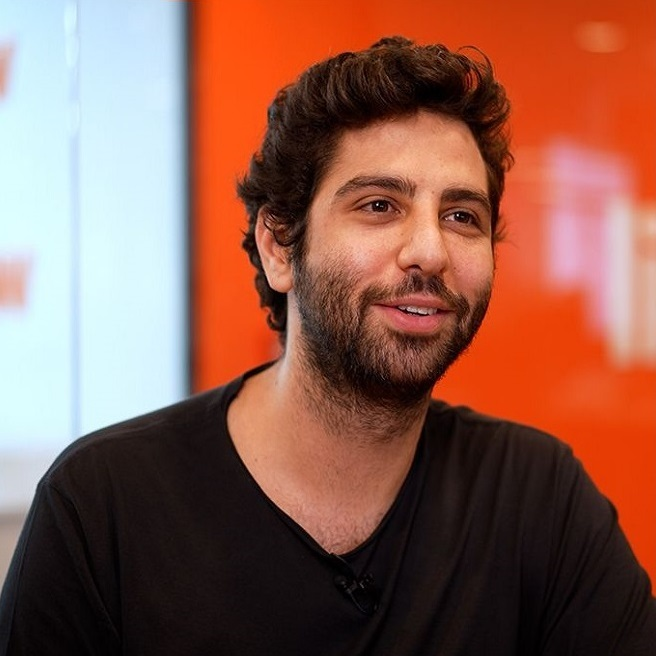
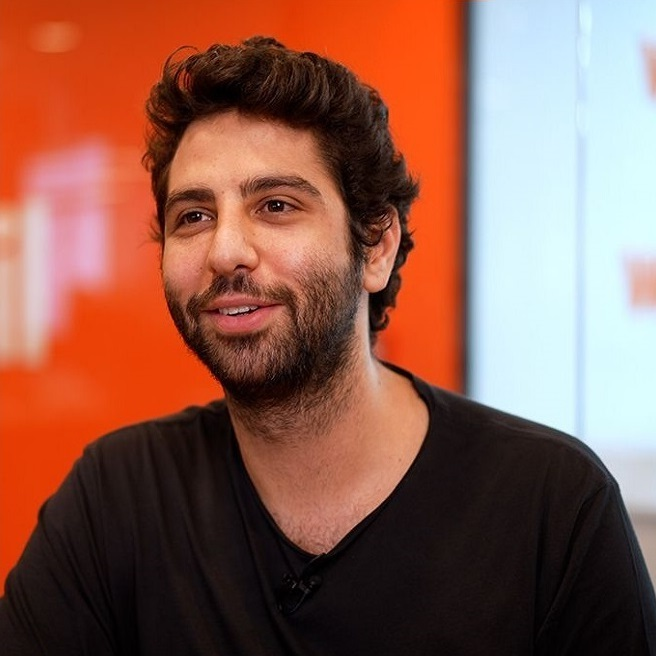
Konuşmacılar eklendi

diff --git a/index.html b/index.html
@@ -183,7 +183,7 @@
 
                 <div class="test_box box-05 col-xs-6 col-md-4">
                     <div class="inner">
-                        <a href="https://www.linkedin.com/in/zeynep-uygun-97aa8445/" class="test_click">
+                        <a href="https://www.linkedin.com/in/zeynep-uygun-97aa8445/" target="_blank" class="test_click">
                             <div class="flex_this">
                                 <h1 class="test_title">Zeynep Uygun</h1>
                                 <h3 class="test_aciklama">Co-Founder @GetMobil</h3>
@@ -195,7 +195,7 @@
 
                 <div class="test_box box-06 col-xs-6 col-md-4">
                     <div class="inner">
-                        <a href="https://www.linkedin.com/in/mehmetuygun/" class="test_click">
+                        <a href="https://www.linkedin.com/in/mehmetuygun/" target="_blank" class="test_click">
                             <div class="flex_this">
                                 <h1 class="test_title">Mehmet Ertan Uygun</h1>
                                 <h3 class="test_aciklama">CEO & Co-Founder @GetMobil</h3>
@@ -204,34 +204,32 @@
                         </a>
                     </div>
                 </div>
-
-                <!--
+                
                 <div class="test_box box-07 col-xs-6 col-md-4">
                     <div class="inner">
-                        <a href="#" class="test_click">
+                        <a href="https://www.linkedin.com/in/merve-zabci-0996875/" target="_blank" class="test_click">
                             <div class="flex_this">
-                                <h1 class="test_title">Title</h1>
-                                <span class="test_link">Link</span>
+                                <h1 class="test_title">Merve Zabci</h1>
+                                <h3 class="test_aciklama">Managing Partner @MetisVentures</h3>
+                                <span class="test_link"><i class="fa fa-linkedin"></i></span>
                             </div>
                         </a>
                     </div>
                 </div>
+
                 <div class="test_box box-08 col-xs-6 col-md-4">
                     <div class="inner">
-                        <a href="#" class="test_click">
+                        <a href="https://www.linkedin.com/in/yigit-arslan-8702553/" target="_blank" class="test_click">
                             <div class="flex_this">
-                                <h1 class="test_title">Title</h1>
-                                <span class="test_link">Link</span>
+                                <h1 class="test_title">Yigit Arslan</h1>
+                                <h3 class="test_aciklama">General Partner @Techone VC & twozero Ventures & Logo Ventures</h3>
+                                <span class="test_link"><i class="fa fa-linkedin"></i></span>
                             </div>
                         </a>
                     </div>
                 </div>
             </div>
         </div>
-
--->
-
-
 
     </main>
     <footer>

diff --git a/styles.css b/styles.css
@@ -416,29 +416,21 @@ body {
 
 }
 
-/*
-
 .box-07 .inner {
-  background-image: url('https://picsum.photos/1024/768?image=1080');
+  background-image: url(/Assets/WhatsApp\ Image\ 2024-04-13\ at\ 10.50.44_40e49cc8.jpg);
   background-position: 50% 50%;
   background-repeat: no-repeat;
-  background-size: cover;
+  background-size: contain;
 
 }
 
 .box-08 .inner {
-  background-image: url('https://picsum.photos/1024/768?image=1080');
+  background-image: url(/Assets/WhatsApp\ Image\ 2024-04-13\ at\ 10.51.55_d21c0e59.jpg);
   background-position: 50% 50%;
   background-repeat: no-repeat;
-  background-size: cover;
+  background-size: contain;
 
 }
-
-*/
-
-
-
-
 
 .button-cover {
   font-family: Montserrat, sans-serif;
